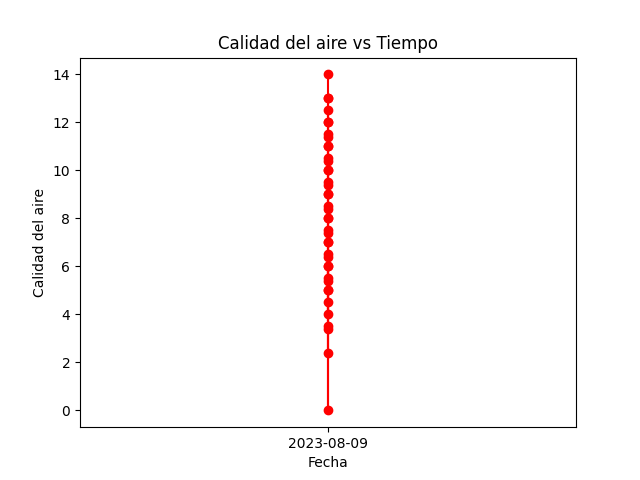
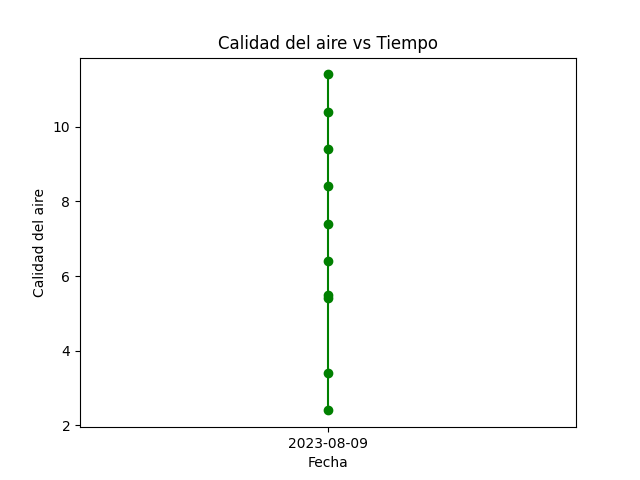
cambiando de color a las graficas

diff --git a/Practica 1/app.py b/Practica 1/app.py
@@ -72,20 +72,23 @@ def graph():
     plt.ylabel('Temperatura')
     plt.title('Temperatura vs Tiempo')
     plt.savefig('frontend/Temperature.png')
+    plt.close()
     # Grafica de Luminosidad 
-    plt.plot(fechas, lums, marker='o', linestyle='-', color='r')
+    plt.plot(fechas, lums, marker='o', linestyle='-', color='y')
     plt.xlabel('Fecha')
     plt.ylabel('Luminosidad')
     plt.title('Luminosidad vs Tiempo')
     plt.savefig('frontend/Lumen.png')
+    plt.close()
     # Grafica de Humedades
-    plt.plot(fechas, hums, marker='o', linestyle='-', color='r')
+    plt.plot(fechas, hums, marker='o', linestyle='-', color='b')
     plt.xlabel('Fecha')
     plt.ylabel('Humedad')
     plt.title('Humedad vs Tiempo')
     plt.savefig('frontend/Humidity.png')
+    plt.close()
     # Grafica de Humedades
-    plt.plot(fechas, cos, marker='o', linestyle='-', color='r')
+    plt.plot(fechas, cos, marker='o', linestyle='-', color='g')
     plt.xlabel('Fecha')
     plt.ylabel('Calidad del aire')
     plt.title('Calidad del aire vs Tiempo')
